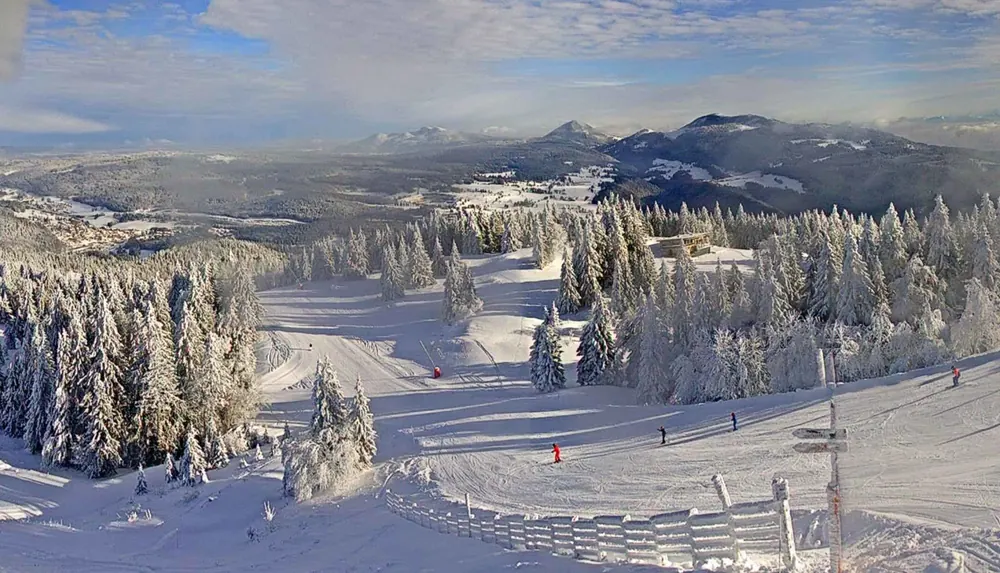
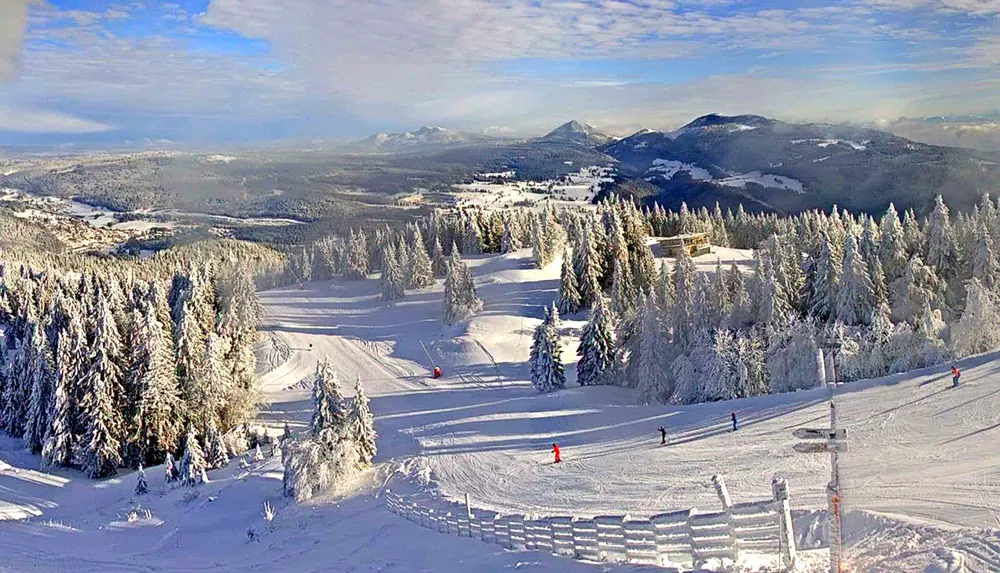
Bannières sans voile sombre ; Hiver recadré et éclairci (#13)
- Le voile sombre sur toute la photo (jusqu'à 50 %) éteignait les
  bannières : remplacé par une ombre douce centrée derrière le texte et
  une ombre sur les lettres, sur toutes les pages.
- Hiver : cadrage remonté (ciel et crêtes), fichier de bannière retouché
  (luminosité +10 %, contraste +12 %, couleurs +15 %) ; la photo d'origine
  metabief.jpg reste intacte.

Claude-Session: https://claude.ai/code/session_01SNUK9Jsg5PEtaEFJYgEDuj

diff --git a/styles.css b/styles.css
@@ -202,7 +202,7 @@ nav ul li.has-sub .submenu li a:hover { background: rgba(255,255,255,0.1); text-
    3. HEADER & HERO
    ========================================= */
 header.header-principal {
-    background: linear-gradient(rgba(0, 0, 0, 0.3), rgba(0, 0, 0, 0.5)), 
+    background: radial-gradient(ellipse 55% 45% at 50% 50%, rgba(0,0,0,0.38), rgba(0,0,0,0) 100%), 
                 url('images/banniere/vue-balcon-2-1920.webp') no-repeat center center;
     background-size: cover;
     background-attachment: fixed;
@@ -219,7 +219,7 @@ header.header-principal {
 
 /* Header 2 (Pages internes) - Version Flexible */
 header.header2 {
-    background: url('images/banniere/vue-balcon-2-1920.webp') no-repeat center center;
+    background: radial-gradient(ellipse 55% 45% at 50% 50%, rgba(0,0,0,0.38), rgba(0,0,0,0) 100%), url('images/banniere/vue-balcon-2-1920.webp') no-repeat center center;
     background-size: cover;
     color: white;
     
@@ -314,10 +314,10 @@ section h2 {
         height: 60vh;
         background-attachment: scroll;
         /* Bannière allégée sur mobile (préchargée dans index.html, même media query) */
-        background-image: linear-gradient(rgba(0, 0, 0, 0.3), rgba(0, 0, 0, 0.5)), url('images/banniere/vue-balcon-2-1600.webp');
+        background-image: radial-gradient(ellipse 55% 45% at 50% 50%, rgba(0,0,0,0.38), rgba(0,0,0,0) 100%), url('images/banniere/vue-balcon-2-1600.webp');
     }
     header.header2 {
-        background-image: url('images/banniere/vue-balcon-2-1000.webp');
+        background-image: radial-gradient(ellipse 55% 45% at 50% 50%, rgba(0,0,0,0.38), rgba(0,0,0,0) 100%), url('images/banniere/vue-balcon-2-1000.webp');
     }
     
     /* Header 2 (Pages) Mobile - CORRECTION TAILLE */
@@ -1553,18 +1553,18 @@ header .header-sub {
 
 /* Bannières des pages de saison (voile sombre : titre lisible sur la neige et le ciel) */
 header.header2.header-hiver {
-    background-image: linear-gradient(rgba(0,0,0,0.25), rgba(0,0,0,0.45)), url('images/banniere/hiver-metabief-1920.webp');
-    background-position: center 40%;
+    background-image: radial-gradient(ellipse 55% 45% at 50% 50%, rgba(0,0,0,0.38), rgba(0,0,0,0) 100%), url('images/banniere/hiver-metabief-1920.webp');
+    background-position: center 22%; /* ciel et crêtes dans le cadre */
     min-height: 300px;
 }
 header.header2.header-ete {
-    background-image: linear-gradient(rgba(0,0,0,0.2), rgba(0,0,0,0.4)), url('images/banniere/ete-saint-point-1600.webp');
+    background-image: radial-gradient(ellipse 55% 45% at 50% 50%, rgba(0,0,0,0.38), rgba(0,0,0,0) 100%), url('images/banniere/ete-saint-point-1600.webp');
     background-position: center 55%;
     min-height: 300px;
 }
 @media (max-width: 768px) {
-    header.header2.header-hiver { background-image: linear-gradient(rgba(0,0,0,0.25), rgba(0,0,0,0.45)), url('images/banniere/hiver-metabief-1000.webp'); min-height: 200px; }
-    header.header2.header-ete { background-image: linear-gradient(rgba(0,0,0,0.2), rgba(0,0,0,0.4)), url('images/banniere/ete-saint-point-1000.webp'); min-height: 200px; }
+    header.header2.header-hiver { background-image: radial-gradient(ellipse 55% 45% at 50% 50%, rgba(0,0,0,0.38), rgba(0,0,0,0) 100%), url('images/banniere/hiver-metabief-1000.webp'); min-height: 200px; }
+    header.header2.header-ete { background-image: radial-gradient(ellipse 55% 45% at 50% 50%, rgba(0,0,0,0.38), rgba(0,0,0,0) 100%), url('images/banniere/ete-saint-point-1000.webp'); min-height: 200px; }
 }
 /* Bande de photos sous l'introduction */
 .season-gallery {
@@ -1605,4 +1605,10 @@ header.header2.header-ete {
     .stay-img img { width: 90px; height: 64px; }
     .stay-text { flex: 1 1 60%; }
     .stay-actions { flex: 1 1 100%; flex-direction: row; justify-content: space-between; }
+}
+
+/* Bannières sans voile (choix de Cyril, 28/09) : photo à ses vraies couleurs, lisibilité
+   assurée par une ombre douce derrière le texte (radial-gradient) et une ombre sur les lettres. */
+header h1, header h2, header h3, header p, header .h1-kw {
+    text-shadow: 0 2px 6px rgba(0,0,0,0.75), 0 0 22px rgba(0,0,0,0.45);
 }
